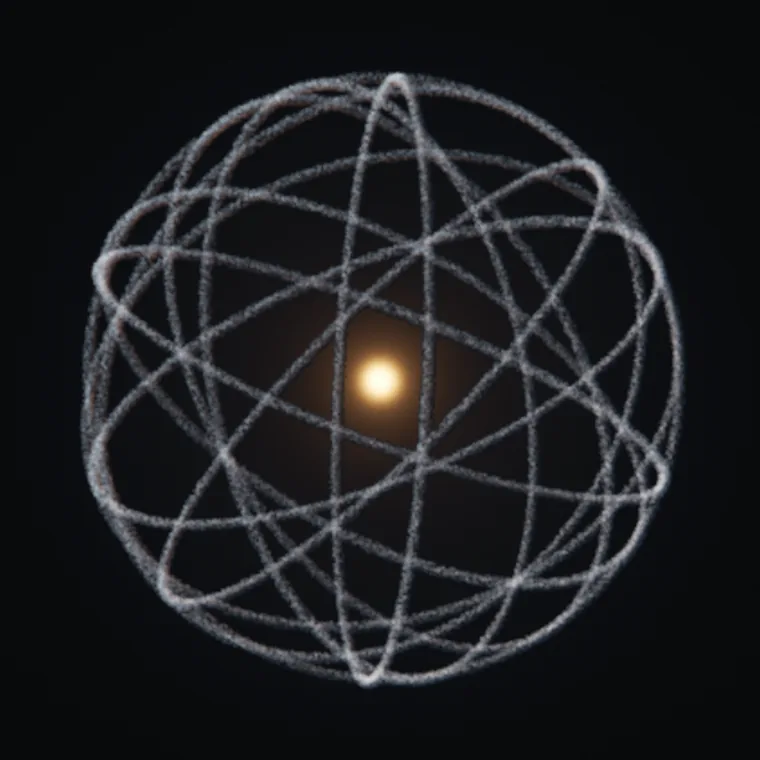
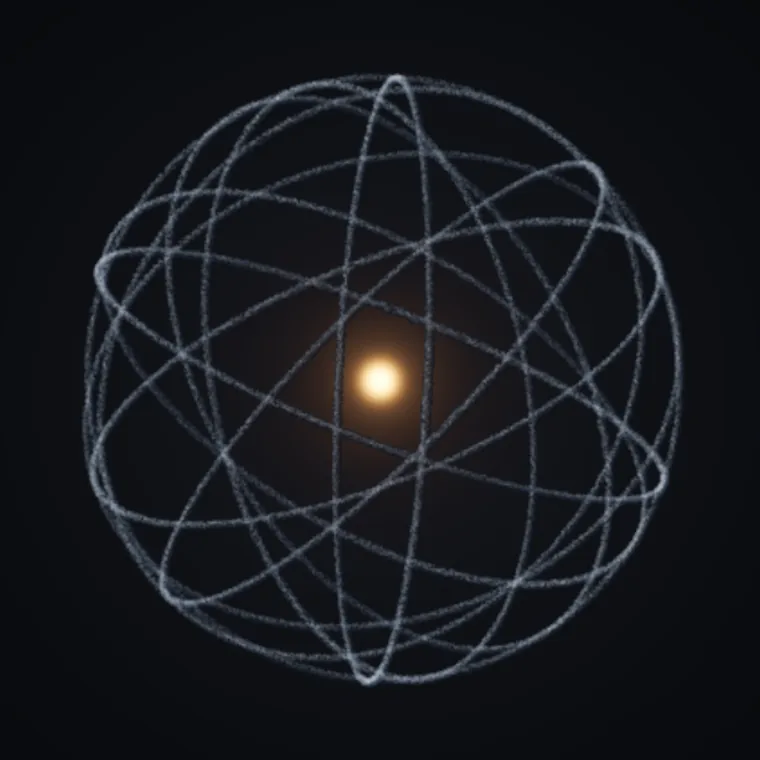
Refresh the static poster and verification notes after the review round

diff --git a/VALIDATION.md b/VALIDATION.md
@@ -7,11 +7,12 @@ The Sentinel revision replaces the Threshold doorway and grid floor with a geode
 - Form validation, payload, submission, success/error copy and "Send another" are byte-identical to the previous revision. Dialog markup is unchanged.
 - Every scene input is a uniform written by Motion (`threeEffect`) or by the CPU model; the loop runs on Motion's `frame.update`/`frame.render`. No `requestAnimationFrame` in the source.
 - WebGL2 (SwiftShader, `?gl=force`) and Canvas2D renders were inspected at 1440×900, 390×844 and 320×568: lattice centred on the DOM anchor, ember at the centre, no floor or grid, type on ink, no horizontal overflow, both rows on one line.
-- Pointer: hairlines lock onto at most five nodes; readouts decode in from the documentation-range pool only; the corner line switches to `TRACKING` and integrity dips and recovers. Row hover keeps its letter wave, underline and separator response, sends a ripple through the lattice, lights the asset class (row 1) or tightens the lattice (row 2).
+- Pointer: hairlines lock onto at most four nodes; at most three readouts decode in, unique, from the documentation-range pool only; the corner line switches to `TRACKING` and integrity dips and recovers. Row hover keeps its letter wave, underline and separator response, sends a ripple through the lattice, lights the asset class (row 1) or tightens the lattice (row 2).
 - Rows: plain `span`s, `tabIndex -1`, no click handler; a click opens nothing; tab order is contact → pause.
 - Modal: the panel springs from the ember; the lattice breathes, dims and draws back; no slot or gate opens.
 - Fallbacks forced in a test browser: without WebGL the Canvas2D tier draws the same lattice, ember, links and response; without any canvas the WebP poster of the real settled frame is shown and the pause control is hidden.
 - Reduced motion: no entrance, idle, camera motion or pulses; one composed still; pause control hidden. Pause stops everything and resumes cleanly.
+- Review round (Fable-overseen; 21 findings, each confirmed by an adversarial verifier, plus a Fable creative review) applied in 6837707: presence-gated proximity (the idle frame is at rest), tear = one fast pass (pure-model simulation: two fast swipes earn the finding at 60 and 30 Hz; slow 1.5 s sweeps never tear and integrity stays 0.998), unique readouts capped at three with AA plates, gesture uniforms that restart from keyframes, a governor that starts at the DPR cap and reads the real refresh, still frames that are seeded and clean, pinch-zoom kept, cheaper resize and style work.
 
 **Not yet measured on real GPUs.** SwiftShader verifies the image, not the frame rate. Run `tools/bench.html` on a typical laptop and phone, and open the site with `?debug` to read fps, tier, backing scale and particle rows. The governor lowers resolution, then particle count, if frames run long.
 
